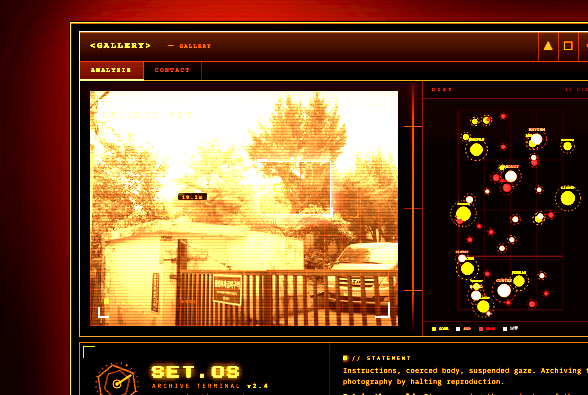
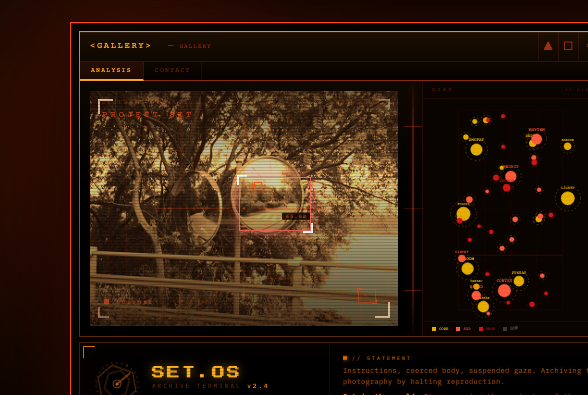
docs: 요구사항 정의서 라이트 테마 적용 + 스크린샷 원본 복원
흰 배경 + 검은 글씨로 전환, 오렌지 acc 유지
스크린샷 brightness 보정 되돌리고 원본 재캡처

diff --git a/SET-OS_요구사항정의서.html b/SET-OS_요구사항정의서.html
@@ -7,31 +7,27 @@
 <link href="https://fonts.googleapis.com/css2?family=IBM+Plex+Mono:wght@300;400;500;600&family=IBM+Plex+Sans+KR:wght@300;400;500;600&display=swap" rel="stylesheet">
 <style>
 :root{
-  --acc:#d96a0e; --acc2:rgba(217,106,14,.7); --acc3:rgba(217,106,14,.35); --acc4:rgba(217,106,14,.12);
-  --amb:#ffb000; --red:#ff3b40; --teal:#3fb09a; --vio:#b07bff;
-  --bg:#09090a; --bg2:#111112; --bg3:#1a1a1b;
-  --txt:#e8e0d4; --txt2:#b8a898; --txt3:#7a6a5a;
+  --acc:#c45c00; --acc2:rgba(196,92,0,.8); --acc3:rgba(196,92,0,.5);
+  --amb:#b87000; --red:#cc2222; --teal:#1a8870; --vio:#6644cc;
+  --bg:#ffffff; --bg2:#f5f3ef; --bg3:#ece9e3;
+  --txt:#1a1714; --txt2:#3d3530; --txt3:#7a6e65;
   --mono:'IBM Plex Mono',monospace; --sans:'IBM Plex Sans KR',sans-serif;
-  --border:1px solid rgba(217,106,14,.2);
+  --border:1px solid #ddd8d0;
 }
 *{margin:0;padding:0;box-sizing:border-box;}
 html{scroll-behavior:smooth;}
-body{background:var(--bg);color:var(--txt);font-family:var(--sans);font-size:14px;line-height:1.75;
-  background-image:radial-gradient(ellipse 80% 60% at 50% 0%,rgba(217,106,14,.06),transparent 70%);}
+body{background:var(--bg);color:var(--txt);font-family:var(--sans);font-size:14px;line-height:1.75;}
 
 /* ── 레이아웃 ── */
 .page{max-width:900px;margin:0 auto;padding:60px 32px 120px;}
 
 /* ── 커버 ── */
-.cover{border:1px solid rgba(217,106,14,.3);padding:40px 36px 36px;margin-bottom:56px;position:relative;
-  background:linear-gradient(135deg,rgba(217,106,14,.04),transparent);}
-.cover::before{content:'';position:absolute;top:0;left:0;right:0;height:2px;
-  background:linear-gradient(90deg,transparent,var(--acc),transparent);}
+.cover{border:1px solid #ddd8d0;border-top:3px solid var(--acc);padding:40px 36px 36px;
+  margin-bottom:56px;position:relative;background:var(--bg2);}
 .cover-tag{font-family:var(--mono);font-size:9px;letter-spacing:3px;color:var(--acc3);margin-bottom:16px;}
-.cover-title{font-family:var(--mono);font-size:28px;letter-spacing:2px;color:var(--acc);font-weight:600;
-  text-shadow:0 0 40px rgba(217,106,14,.3);margin-bottom:6px;}
-.cover-sub{font-family:var(--mono);font-size:13px;color:var(--acc2);margin-bottom:28px;}
-.cover-meta{display:grid;grid-template-columns:repeat(3,1fr);gap:0;border-top:1px solid rgba(217,106,14,.15);padding-top:20px;}
+.cover-title{font-family:var(--mono);font-size:28px;letter-spacing:2px;color:var(--acc);font-weight:600;margin-bottom:6px;}
+.cover-sub{font-family:var(--mono);font-size:13px;color:var(--txt2);margin-bottom:28px;}
+.cover-meta{display:grid;grid-template-columns:repeat(3,1fr);gap:0;border-top:1px solid #ddd8d0;padding-top:20px;}
 .cover-meta-item{padding:0 20px 0 0;}
 .cover-meta-item:first-child{padding-left:0;}
 .cover-meta-label{font-family:var(--mono);font-size:8px;letter-spacing:2px;color:var(--txt3);margin-bottom:4px;}
@@ -44,16 +40,16 @@ body{background:var(--bg);color:var(--txt);font-family:var(--sans);font-size:14p
 .toc-list a{font-family:var(--mono);font-size:11px;color:var(--txt2);text-decoration:none;
   display:flex;align-items:baseline;gap:12px;transition:color .15s;}
 .toc-list a:hover{color:var(--acc);}
-.toc-list a .toc-n{color:var(--acc3);min-width:18px;}
-.toc-list a .toc-dots{flex:1;border-bottom:1px dotted rgba(217,106,14,.2);margin:0 4px;position:relative;top:-3px;}
+.toc-list a .toc-n{color:var(--acc);min-width:18px;}
+.toc-list a .toc-dots{flex:1;border-bottom:1px dotted #ccc8c0;margin:0 4px;position:relative;top:-3px;}
 
 /* ── 섹션 ── */
 .section{margin-bottom:64px;}
 .section-head{display:flex;align-items:center;gap:14px;margin-bottom:32px;padding-bottom:12px;
-  border-bottom:1px solid rgba(217,106,14,.2);}
-.section-n{font-family:var(--mono);font-size:9px;letter-spacing:2px;color:var(--acc3);
-  background:rgba(217,106,14,.1);border:1px solid rgba(217,106,14,.2);padding:2px 8px;}
-.section-title{font-family:var(--mono);font-size:17px;letter-spacing:2px;color:var(--acc);font-weight:600;}
+  border-bottom:2px solid var(--bg3);}
+.section-n{font-family:var(--mono);font-size:9px;letter-spacing:2px;color:var(--acc);
+  background:rgba(196,92,0,.08);border:1px solid rgba(196,92,0,.25);padding:2px 8px;}
+.section-title{font-family:var(--mono);font-size:17px;letter-spacing:2px;color:var(--txt);font-weight:600;}
 
 /* ── 서브섹션 ── */
 .subsection{margin-bottom:36px;}
@@ -75,59 +71,59 @@ p.lead{color:var(--txt);font-size:15px;}
 /* ── 테이블 ── */
 .table-wrap{overflow-x:auto;margin-bottom:24px;}
 table{width:100%;border-collapse:collapse;font-size:13px;}
-thead tr{background:rgba(217,106,14,.08);border-bottom:1px solid rgba(217,106,14,.3);}
-th{font-family:var(--mono);font-size:9px;letter-spacing:2px;color:var(--acc3);padding:10px 14px;text-align:left;font-weight:400;}
-td{padding:10px 14px;border-bottom:1px solid rgba(217,106,14,.07);color:var(--txt2);vertical-align:top;}
+thead tr{background:var(--bg3);border-bottom:1px solid #ccc8c0;}
+th{font-family:var(--mono);font-size:9px;letter-spacing:2px;color:var(--txt3);padding:10px 14px;text-align:left;font-weight:500;}
+td{padding:10px 14px;border-bottom:1px solid #ece9e3;color:var(--txt2);vertical-align:top;}
 tr:last-child td{border-bottom:none;}
 td:first-child{font-family:var(--mono);font-size:11px;color:var(--txt);white-space:nowrap;}
-td code{font-family:var(--mono);font-size:11px;color:var(--acc2);background:rgba(217,106,14,.08);
-  padding:1px 5px;border-radius:2px;}
-tr:hover td{background:rgba(217,106,14,.03);}
+td code{font-family:var(--mono);font-size:11px;color:var(--acc);background:rgba(196,92,0,.07);
+  padding:1px 5px;border-radius:2px;border:1px solid rgba(196,92,0,.15);}
+tr:hover td{background:#faf8f4;}
 
 /* ── 코드 블록 ── */
-pre.code{background:var(--bg2);border:var(--border);padding:20px 22px;
+pre.code{background:var(--bg2);border:var(--border);border-left:3px solid var(--acc);padding:20px 22px;
   font-family:var(--mono);font-size:12px;color:var(--txt2);line-height:1.65;
   overflow-x:auto;margin-bottom:24px;}
 pre.code .c{color:var(--txt3);}
-pre.code .k{color:var(--acc2);}
+pre.code .k{color:var(--acc);}
 pre.code .v{color:var(--amb);}
 pre.code .s{color:var(--teal);}
 
 /* ── 인포 카드 ── */
 .card-grid{display:grid;grid-template-columns:repeat(3,1fr);gap:12px;margin-bottom:24px;}
-.card{background:var(--bg2);border:var(--border);padding:16px 18px;}
-.card-label{font-family:var(--mono);font-size:8px;letter-spacing:2px;color:var(--acc3);margin-bottom:8px;}
-.card-val{font-family:var(--mono);font-size:20px;color:var(--acc);font-weight:600;}
+.card{background:var(--bg2);border:var(--border);border-top:2px solid var(--acc);padding:16px 18px;}
+.card-label{font-family:var(--mono);font-size:8px;letter-spacing:2px;color:var(--txt3);margin-bottom:8px;}
+.card-val{font-family:var(--mono);font-size:16px;color:var(--acc);font-weight:600;}
 .card-desc{font-size:11px;color:var(--txt3);margin-top:4px;}
 
 /* ── 레이아웃 다이어그램 ── */
-.diagram{font-family:var(--mono);font-size:11px;line-height:1.6;color:var(--acc3);
-  background:var(--bg2);border:var(--border);padding:20px 22px;overflow-x:auto;margin-bottom:24px;}
+.diagram{font-family:var(--mono);font-size:11px;line-height:1.6;color:var(--txt2);
+  background:var(--bg2);border:var(--border);border-left:3px solid var(--bg3);
+  padding:20px 22px;overflow-x:auto;margin-bottom:24px;}
 
 /* ── 태그 배지 ── */
 .badge{font-family:var(--mono);font-size:9px;letter-spacing:1px;padding:2px 7px;
   border-radius:2px;display:inline-block;vertical-align:middle;margin-left:6px;}
-.badge.core{background:rgba(217,106,14,.15);color:var(--acc);border:1px solid rgba(217,106,14,.3);}
-.badge.soon{background:rgba(255,59,64,.12);color:var(--red);border:1px solid rgba(255,59,64,.3);}
-.badge.pilot{background:rgba(176,123,255,.12);color:var(--vio);border:1px solid rgba(176,123,255,.3);}
-.badge.live{background:rgba(63,176,154,.12);color:var(--teal);border:1px solid rgba(63,176,154,.3);}
-.badge.demo{background:rgba(255,176,0,.1);color:var(--amb);border:1px solid rgba(255,176,0,.25);}
+.badge.core{background:rgba(196,92,0,.1);color:var(--acc);border:1px solid rgba(196,92,0,.3);}
+.badge.soon{background:rgba(204,34,34,.07);color:var(--red);border:1px solid rgba(204,34,34,.25);}
+.badge.pilot{background:rgba(102,68,204,.07);color:var(--vio);border:1px solid rgba(102,68,204,.25);}
+.badge.live{background:rgba(26,136,112,.08);color:var(--teal);border:1px solid rgba(26,136,112,.3);}
+.badge.demo{background:rgba(184,112,0,.08);color:var(--amb);border:1px solid rgba(184,112,0,.25);}
 
 /* ── 스크린샷 ── */
-.sc-wrap{margin:20px 0 28px;border:1px solid rgba(217,106,14,.2);background:#000;overflow:hidden;}
-.sc-label{font-family:var(--mono);font-size:8px;letter-spacing:2px;color:var(--acc3);
-  padding:6px 12px;border-bottom:1px solid rgba(217,106,14,.12);background:rgba(217,106,14,.04);}
-.sc-img{width:100%;display:block;opacity:.88;transition:opacity .2s;}
-.sc-img:hover{opacity:1;}
+.sc-wrap{margin:20px 0 28px;border:1px solid #ccc8c0;overflow:hidden;box-shadow:0 2px 8px rgba(0,0,0,.08);}
+.sc-label{font-family:var(--mono);font-size:8px;letter-spacing:2px;color:var(--txt3);
+  padding:6px 12px;border-bottom:1px solid #ddd8d0;background:var(--bg2);}
+.sc-img{width:100%;display:block;}
 .sc-pair{display:grid;grid-template-columns:1fr 1fr;gap:12px;margin:20px 0 28px;}
 .sc-pair .sc-wrap{margin:0;}
 @media(max-width:640px){.sc-pair{grid-template-columns:1fr;}}
 
 /* ── 구분선 ── */
-.divider{border:none;border-top:1px solid rgba(217,106,14,.1);margin:40px 0;}
+.divider{border:none;border-top:1px solid #ddd8d0;margin:40px 0;}
 
 /* ── 푸터 ── */
-.foot{border-top:1px solid rgba(217,106,14,.2);padding-top:24px;margin-top:40px;
+.foot{border-top:1px solid #ddd8d0;padding-top:24px;margin-top:40px;
   display:flex;justify-content:space-between;font-family:var(--mono);font-size:10px;color:var(--txt3);}
 .foot span{color:var(--acc3);}
 </style>
